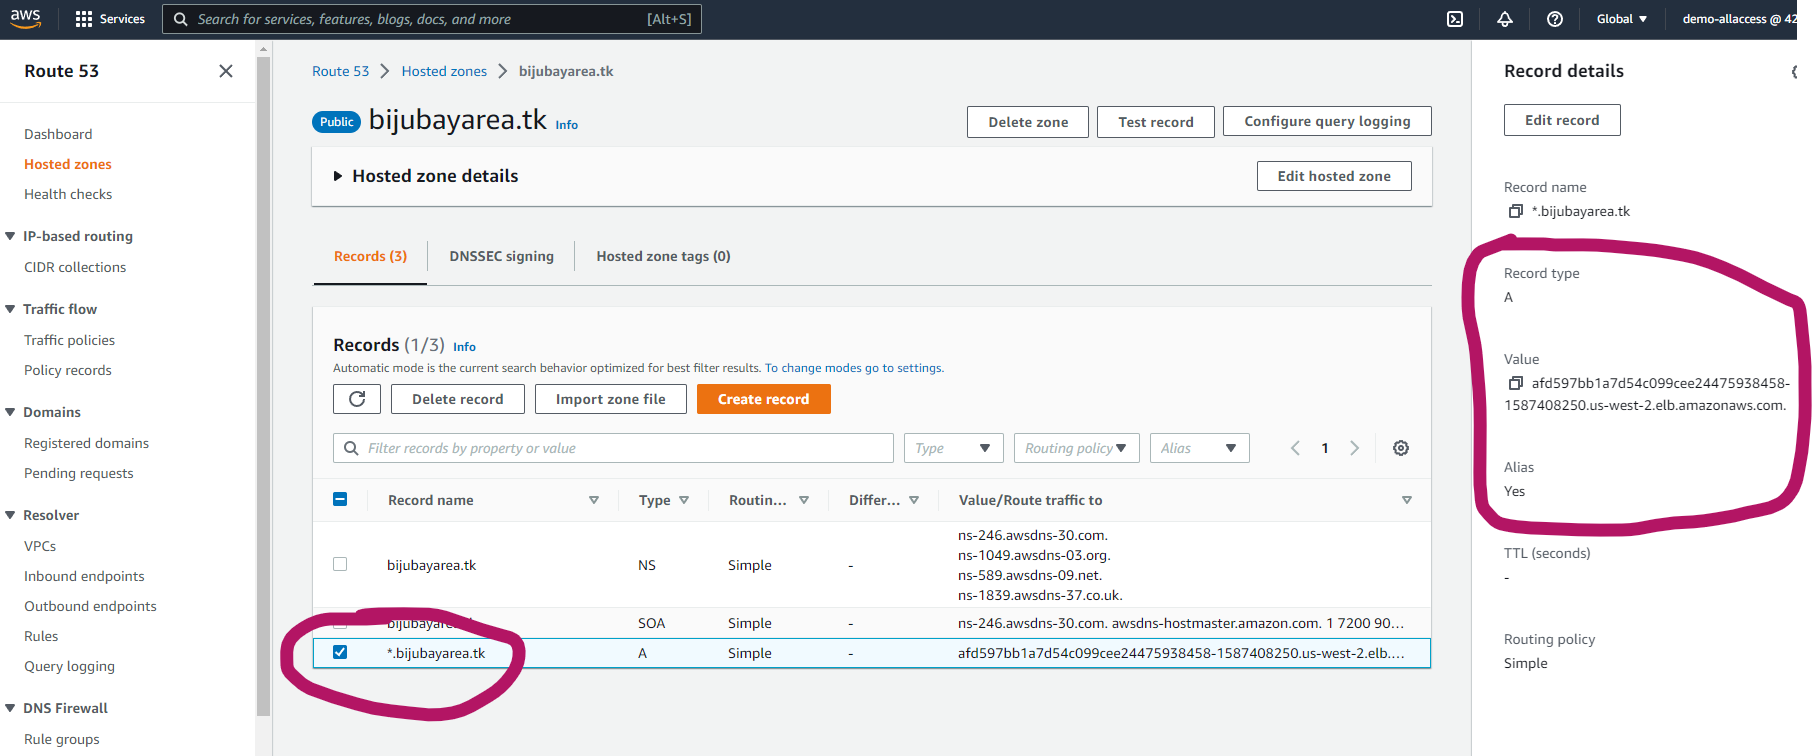
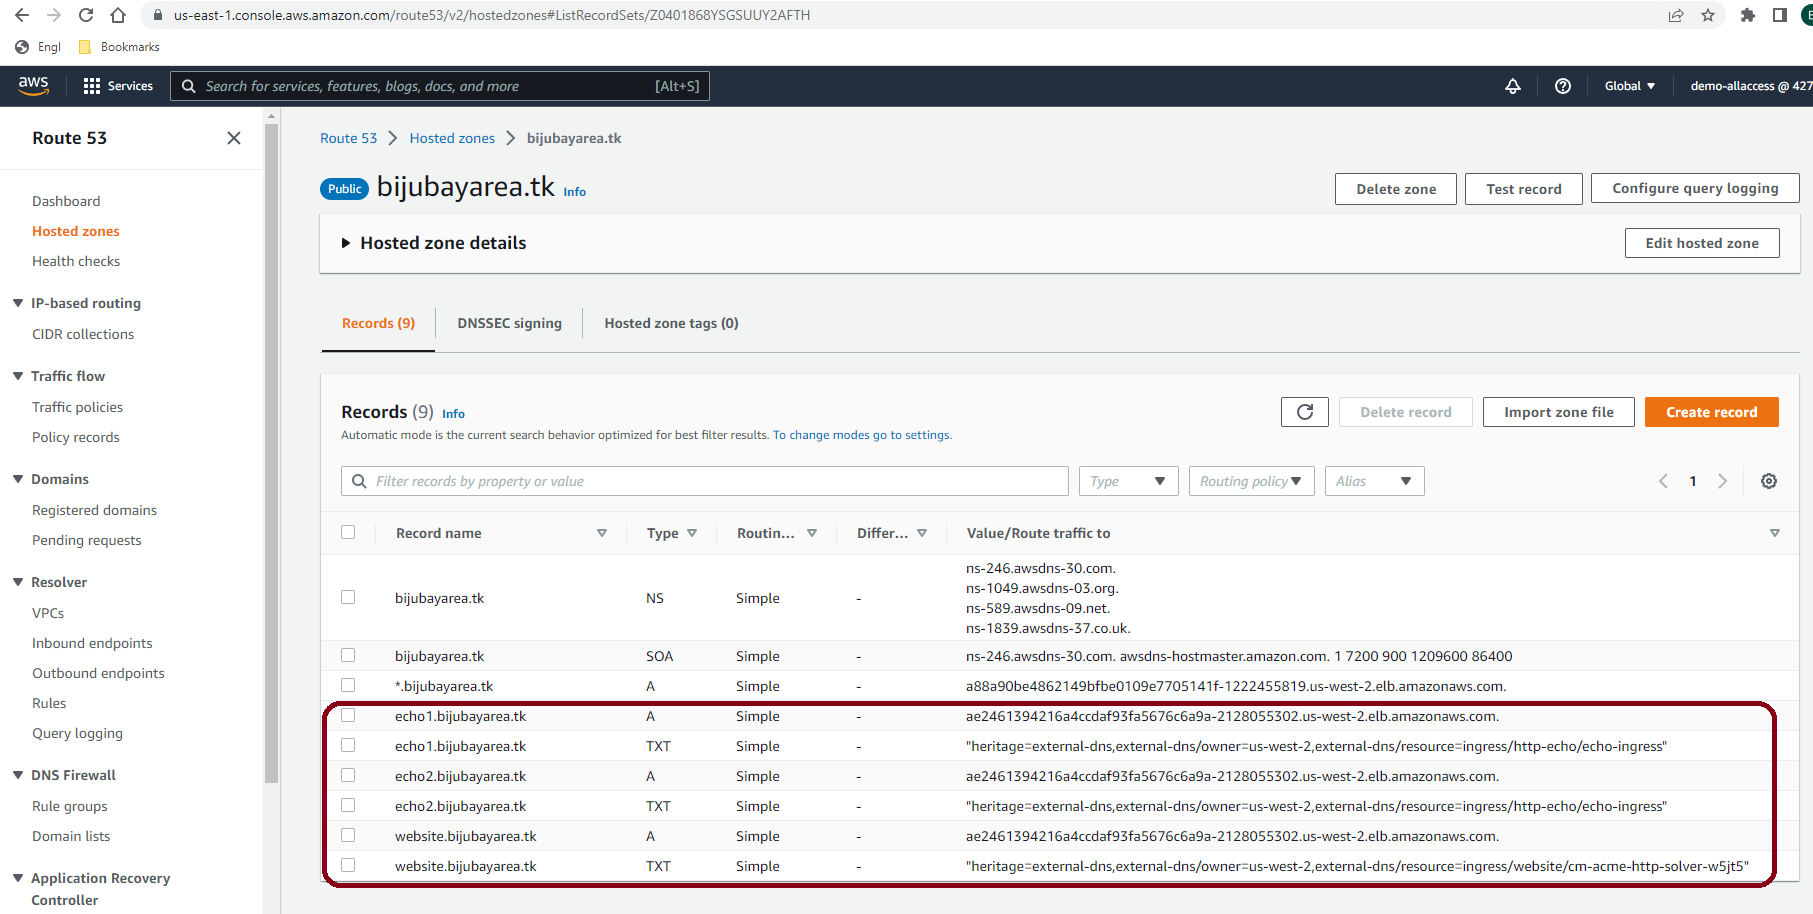
fine tune

diff --git a/README.md b/README.md
@@ -440,7 +440,7 @@ $ kubectl describe certificates
 
 $ k -n http-echo get certificates
 NAME            READY   SECRET          AGE
-http-echo-tls   True    http-echo-tls   5m7s
+http-echo-tls   False   http-echo-tls   65m
 
 
 $ k -n http-echo describe  certificates http-echo-tls
@@ -451,20 +451,52 @@ Annotations:  <none>
 API Version:  cert-manager.io/v1
 Kind:         Certificate
 Metadata:
-
+  Creation Timestamp:  2022-10-30T17:43:53Z
+  Generation:          1
+  Managed Fields:
+    API Version:  cert-manager.io/v1
+    Fields Type:  FieldsV1
+    fieldsV1:
+      f:metadata:
+        f:labels:
+          .:
+          f:app.kubernetes.io/instance:
+        f:ownerReferences:
+          .:
+          k:{"uid":"359a4c56-52ae-4874-9c31-7c4a4df50ca0"}:
+      f:spec:
+        .:
+        f:dnsNames:
+        f:issuerRef:
+          .:
+          f:group:
+          f:kind:
+          f:name:
+        f:secretName:
+        f:usages:
+    Manager:      controller
+    Operation:    Update
+    Time:         2022-10-30T17:43:53Z
+    API Version:  cert-manager.io/v1
+    Fields Type:  FieldsV1
+    fieldsV1:
+      f:status:
+        .:
+        f:conditions:
+        f:nextPrivateKeySecretName:
     Manager:      controller
     Operation:    Update
     Subresource:  status
-    Time:         2022-10-27T00:20:44Z
+    Time:         2022-10-30T17:43:53Z
   Owner References:
     API Version:           networking.k8s.io/v1
     Block Owner Deletion:  true
     Controller:            true
     Kind:                  Ingress
     Name:                  echo-ingress
-    UID:                   fa21ff6c-906b-4e2e-a90b-c2dbafa7f025
-  Resource Version:        83845
-  UID:                     033e9e44-eeea-41df-bcea-fb9a08e8ac98
+    UID:                   359a4c56-52ae-4874-9c31-7c4a4df50ca0
+  Resource Version:        13745
+  UID:                     c1ebcd46-f2c0-4aa0-8f2d-e96ad8121f23
 Spec:
   Dns Names:
     echo1.bijubayarea.tk
@@ -479,50 +511,110 @@ Spec:
     key encipherment
 Status:
   Conditions:
-    Last Transition Time:  2022-10-27T00:20:44Z
-    Message:               Certificate is up to date and has not expired
-    Observed Generation:   1
-    Reason:                Ready
-    Status:                True
-    Type:                  Ready
-  Not After:               2023-01-24T23:20:42Z
-  Not Before:              2022-10-26T23:20:43Z
-  Renewal Time:            2022-12-25T23:20:42Z
-  Revision:                1
-Events:
-  Type    Reason     Age    From          Message
-  ----    ------     ----   ----          -------
-  Normal  Issuing    5m26s  cert-manager  Issuing certificate as Secret does not exist
-  Normal  Generated  5m25s  cert-manager  Stored new private key in temporary Secret resource "http-echo-tls-hfrq4"
-  Normal  Requested  5m25s  cert-manager  Created new CertificateRequest resource "http-echo-tls-d7f6x"
-  Normal  Issuing    4m55s  cert-manager  The certificate has been successfully issued
+    Last Transition Time:        2022-10-30T17:43:53Z
+    Message:                     Issuing certificate as Secret does not exist
+    Observed Generation:         1
+    Reason:                      DoesNotExist
+    Status:                      True
+    Type:                        Issuing
+    Last Transition Time:        2022-10-30T17:43:53Z
+    Message:                     Issuing certificate as Secret does not exist
+    Observed Generation:         1
+    Reason:                      DoesNotExist
+    Status:                      False
+    Type:                        Ready
+  Next Private Key Secret Name:  http-echo-tls-dhg4s
+Events:                          <none>
 
 $ kubectl get orders
 
-$ kubectl -n http-echo get orders
+$  kubectl -n http-echo get orders
 NAME                             STATE   AGE
-http-echo-tls-d7f6x-2650895051   valid   6m30s
+http-echo-tls-x5sk4-2650895051   valid   67m
 
 
-$ kubectl -n http-echo describe orders http-echo-tls-d7f6x-2650895051
-Name:         http-echo-tls-d7f6x-2650895051
+$ kubectl -n http-echo describe orders http-echo-tls-x5sk4-2650895051
+Name:         http-echo-tls-x5sk4-2650895051
 Namespace:    http-echo
 Labels:       app.kubernetes.io/instance=http-echo
 Annotations:  cert-manager.io/certificate-name: http-echo-tls
               cert-manager.io/certificate-revision: 1
-              cert-manager.io/private-key-secret-name: http-echo-tls-hfrq4
+              cert-manager.io/private-key-secret-name: http-echo-tls-dhg4s
 API Version:  acme.cert-manager.io/v1
 Kind:         Order
+Metadata:
+  Creation Timestamp:  2022-10-30T17:43:54Z
+  Generation:          1
+
+    Manager:      controller
+    Operation:    Update
+    Subresource:  status
+    Time:         2022-10-30T18:50:11Z
+  Owner References:
+    API Version:           cert-manager.io/v1
+    Block Owner Deletion:  true
+    Controller:            true
+    Kind:                  CertificateRequest
+    Name:                  http-echo-tls-x5sk4
+    UID:                   9c518b14-fd47-47a9-bbf1-52e61352946c
+  Resource Version:        26003
+  UID:                     5a828341-42fa-4dd9-afd2-982293703406
+Spec:
+  Dns Names:
+    echo1.bijubayarea.tk
+    echo2.bijubayarea.tk
+  Issuer Ref:
+    Group:  cert-manager.io
+    Kind:   ClusterIssuer
+    Name:   letsencrypt-prod
+
+Status:
+  Authorizations:
+    Challenges:
+      Token:        JN54gD_jy9wzAeHXPFJqsf57ItgF4oHlsWbH1LRKDrw
+      Type:         http-01
+      URL:          https://acme-v02.api.letsencrypt.org/acme/chall-v3/170485759642/yYKHlA
+      Token:        JN54gD_jy9wzAeHXPFJqsf57ItgF4oHlsWbH1LRKDrw
+      Type:         dns-01
+      URL:          https://acme-v02.api.letsencrypt.org/acme/chall-v3/170485759642/yTVRZg
+      Token:        JN54gD_jy9wzAeHXPFJqsf57ItgF4oHlsWbH1LRKDrw
+      Type:         tls-alpn-01
+      URL:          https://acme-v02.api.letsencrypt.org/acme/chall-v3/170485759642/ZzZ-sg
+    Identifier:     echo1.bijubayarea.tk
+    Initial State:  pending
+    URL:            https://acme-v02.api.letsencrypt.org/acme/authz-v3/170485759642
+    Wildcard:       false
+    Challenges:
+      Token:        qKJgViu6m-rIJUP_fPFlehaGmrCzbyQqI0JMUMfajTQ
+      Type:         http-01
+      URL:          https://acme-v02.api.letsencrypt.org/acme/chall-v3/170485759652/SDG-HA
+      Token:        qKJgViu6m-rIJUP_fPFlehaGmrCzbyQqI0JMUMfajTQ
+      Type:         dns-01
+      URL:          https://acme-v02.api.letsencrypt.org/acme/chall-v3/170485759652/x5NcoQ
+      Token:        qKJgViu6m-rIJUP_fPFlehaGmrCzbyQqI0JMUMfajTQ
+      Type:         tls-alpn-01
+      URL:          https://acme-v02.api.letsencrypt.org/acme/chall-v3/170485759652/pXbapA
+    Identifier:     echo2.bijubayarea.tk
+    Initial State:  pending
+    URL:            https://acme-v02.api.letsencrypt.org/acme/authz-v3/170485759652
+    Wildcard:       false
 ....
 ....
 ....
 Events:
-  Type    Reason    Age    From          Message
-  ----    ------    ----   ----          -------
-  Normal  Created   6m54s  cert-manager  Created Challenge resource "http-echo-tls-d7f6x-2650895051-455781877" for domain "echo1.bijubayarea.tk"
-  Normal  Created   6m54s  cert-manager  Created Challenge resource "http-echo-tls-d7f6x-2650895051-4256994384" for domain "echo2.bijubayarea.tk"
-  Normal  Complete  6m25s  cert-manager  Order completed successfully
+  Type    Reason    Age   From          Message
+  ----    ------    ----  ----          -------
+  Normal  Complete  97s   cert-manager  Order completed successfully
 
+
+$  kubectl -n website get cert
+NAME          READY   SECRET        AGE
+website-tls   True    website-tls   69m
+
+
+$  kubectl -n website get orders
+NAME                           STATE   AGE
+website-tls-gwvbb-2139627901   valid   70m
 ```
 
 ## Results:
@@ -550,8 +642,41 @@ https://https://website.bijubayarea.tk/
 pod external-dns will auto add a DNS A record in hosted zone for the hostname defined in ingress
 Check if the ELB load balancer names is correct entry for the DNS A Record
 
-![](https://github.com/bijubayarea/argocd-k8s-aws-route53-external-dns-ingress-tls/blob/main/images/route53_auto_update.png)
+![](https://github.com/bijubayarea/argocd-k8s-aws-route53-external-dns-ingress-tls/blob/main/images/Route53_config.png)
 
+Logs of pod
+```
+$ k get pod -n external-dns
+NAME                            READY   STATUS    RESTARTS   AGE
+external-dns-5784c4bc77-s5dkf   1/1     Running   0          43s
+
+
+$ k logs  -n external-dns external-dns-5784c4bc77-s5dkf
+time="2022-10-30T18:41:00Z" level=info msg="config: {APIServerURL: KubeConfig: RequestTimeout:30s DefaultTargets:[] ContourLoadBalancerService:heptio-contour/contour GlooNamespace:gloo-system SkipperRouteGroupVersion:zalando.org/v1 Sources:[service ingress] Namespace: AnnotationFilter: LabelFilter: FQDNTemplate: CombineFQDNAndAnnotation:false IgnoreHostnameAnnotation:false IgnoreIngressTLSSpec:false IgnoreIngressRulesSpec:false Compatibility: PublishInternal:false PublishHostIP:false AlwaysPublishNotReadyAddresses:false ConnectorSourceServer:localhost:8080 Provider:aws GoogleProject: GoogleBatchChangeSize:1000 GoogleBatchChangeInterval:1s GoogleZoneVisibility: DomainFilter:[bijubayarea.tk] ExcludeDomains:[] RegexDomainFilter: RegexDomainExclusion: ZoneNameFilter:[] ZoneIDFilter:[] AlibabaCloudConfigFile:/etc/kubernetes/alibaba-cloud.json AlibabaCloudZoneType: AWSZoneType:public AWSZoneTagFilter:[] AWSAssumeRole: AWSBatchChangeSize:1000 AWSBatchChangeInterval:1s AWSEvaluateTargetHealth:true AWSAPIRetries:3 AWSPreferCNAME:false AWSZoneCacheDuration:0s AzureConfigFile:/etc/kubernetes/azure.json AzureResourceGroup: AzureSubscriptionID: AzureUserAssignedIdentityClientID: BluecatConfigFile:/etc/kubernetes/bluecat.json CloudflareProxied:false CloudflareZonesPerPage:50 CoreDNSPrefix:/skydns/ RcodezeroTXTEncrypt:false AkamaiServiceConsumerDomain: AkamaiClientToken: AkamaiClientSecret: AkamaiAccessToken: AkamaiEdgercPath: AkamaiEdgercSection: InfobloxGridHost: InfobloxWapiPort:443 InfobloxWapiUsername:admin InfobloxWapiPassword: InfobloxWapiVersion:2.3.1 InfobloxSSLVerify:true InfobloxView: InfobloxMaxResults:0 InfobloxFQDNRegEx: InfobloxCreatePTR:false DynCustomerName: DynUsername: DynPassword: DynMinTTLSeconds:0 OCIConfigFile:/etc/kubernetes/oci.yaml InMemoryZones:[] OVHEndpoint:ovh-eu OVHApiRateLimit:20 PDNSServer:http://localhost:8081 PDNSAPIKey: PDNSTLSEnabled:false TLSCA: TLSClientCert: TLSClientCertKey: Policy:upsert-only Registry:txt TXTOwnerID:us-west-2 TXTPrefix: TXTSuffix: Interval:1m0s MinEventSyncInterval:5s Once:false DryRun:false UpdateEvents:false LogFormat:text MetricsAddress::7979 LogLevel:info TXTCacheInterval:0s TXTWildcardReplacement: ExoscaleEndpoint:https://api.exoscale.ch/dns ExoscaleAPIKey: ExoscaleAPISecret: CRDSourceAPIVersion:externaldns.k8s.io/v1alpha1 CRDSourceKind:DNSEndpoint 
+ServiceTypeFilter:[] CFAPIEndpoint: CFUsername: CFPassword: RFC2136Host: RFC2136Port:0 RFC2136Zone: RFC2136Insecure:false RFC2136GSSTSIG:false RFC2136KerberosRealm: RFC2136KerberosUsername: RFC2136KerberosPassword: RFC2136TSIGKeyName: RFC2136TSIGSecret: RFC2136TSIGSecretAlg: RFC2136TAXFR:false RFC2136MinTTL:0s RFC2136BatchChangeSize:50 NS1Endpoint: NS1IgnoreSSL:false NS1MinTTLSeconds:0 TransIPAccountName: TransIPPrivateKeyFile: DigitalOceanAPIPageSize:50 ManagedDNSRecordTypes:[A CNAME] GoDaddyAPIKey: GoDaddySecretKey: GoDaddyTTL:0 GoDaddyOTE:false OCPRouterName:}"
+time="2022-10-30T18:41:00Z" level=info msg="Instantiating new Kubernetes client"
+time="2022-10-30T18:41:00Z" level=info msg="Using inCluster-config based on serviceaccount-token"
+time="2022-10-30T18:41:00Z" level=info msg="Created Kubernetes client https://172.20.0.1:443"
+time="2022-10-30T18:41:06Z" level=info msg="Applying provider record filter for domains: [bijubayarea.tk. .bijubayarea.tk.]"
+time="2022-10-30T18:41:06Z" level=info msg="Desired change: CREATE echo1.bijubayarea.tk A [Id: /hostedzone/Z0401868YSGSUUY2AFTH]"
+time="2022-10-30T18:41:06Z" level=info msg="Desired change: CREATE echo1.bijubayarea.tk TXT [Id: /hostedzone/Z0401868YSGSUUY2AFTH]"
+time="2022-10-30T18:41:06Z" level=info msg="Desired change: CREATE echo2.bijubayarea.tk A [Id: /hostedzone/Z0401868YSGSUUY2AFTH]"
+time="2022-10-30T18:41:06Z" level=info msg="Desired change: CREATE echo2.bijubayarea.tk TXT [Id: /hostedzone/Z0401868YSGSUUY2AFTH]"
+time="2022-10-30T18:41:06Z" level=info msg="Desired change: CREATE website.bijubayarea.tk A [Id: /hostedzone/Z0401868YSGSUUY2AFTH]"
+time="2022-10-30T18:41:06Z" level=info msg="Desired change: CREATE website.bijubayarea.tk TXT [Id: /hostedzone/Z0401868YSGSUUY2AFTH]"
+time="2022-10-30T18:41:06Z" level=info msg="6 record(s) in zone bijubayarea.tk. [Id: /hostedzone/Z0401868YSGSUUY2AFTH] were successfully updated"
+```
+
+A record for DNS Hosts (echo1.bijubayarea.tk, echo2.bijubayarea.tk and website.bijubayarea.tk) updated with correct 
+Load balancer of ingress controller. All incoming traffic for these DNS hostnames get routes to ingress controller
+
+Check A Recors has correct hostname and LB
+
+```
+$ k get svc -n ingress-nginx ingress-nginx-controller
+NAME                       TYPE           CLUSTER-IP      EXTERNAL-IP                                                               PORT(S)                      AGE
+ingress-nginx-controller   LoadBalancer   172.20.78.181   ae2461394216a4ccdaf93fa5676c6a9a-2128055302.us-west-2.elb.amazonaws.com   80:30838/TCP,443:30217/TCP   79m  
+```
 
 ## Debug External DNS
 
